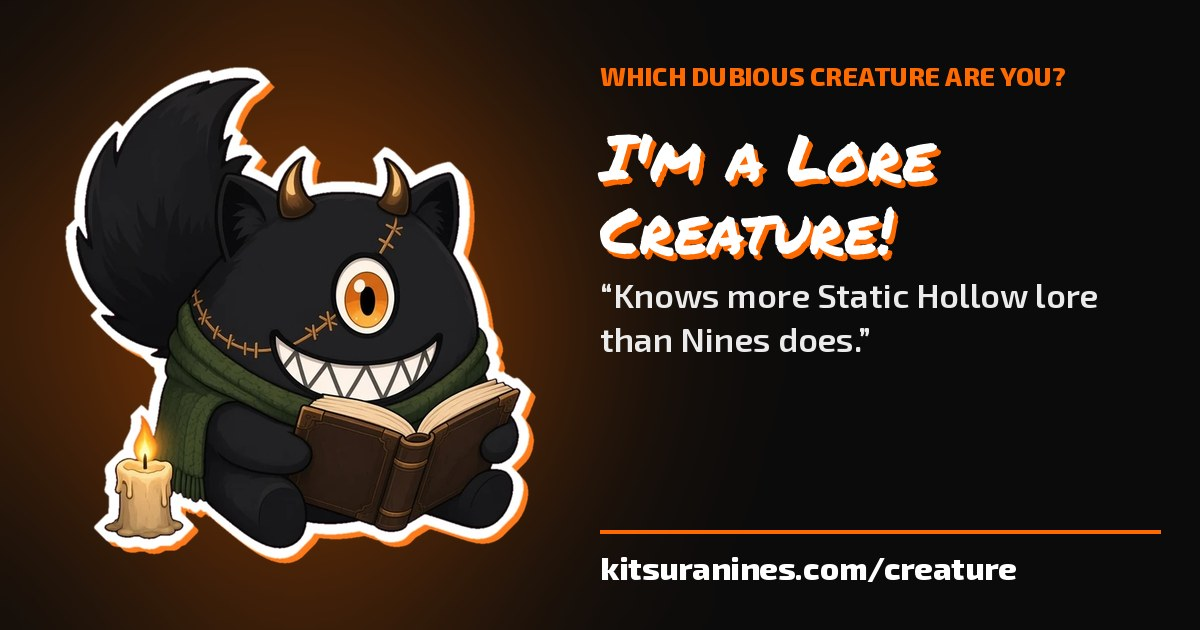
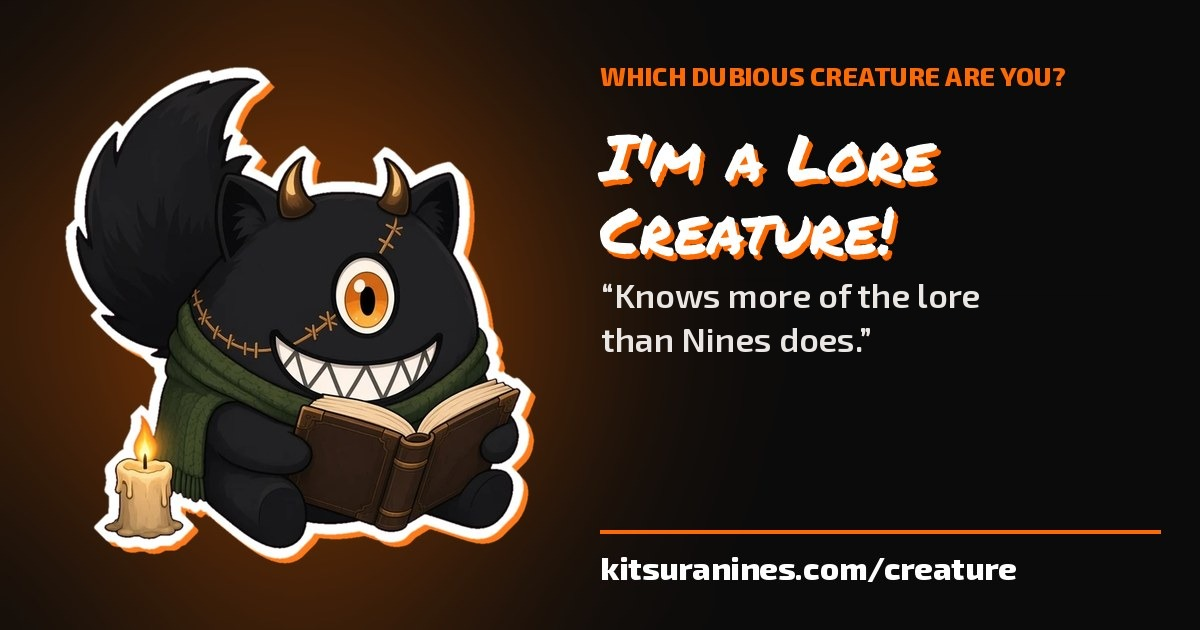
Lore Creature: drop Static Hollow mention from tagline and share card

Changed region(s): [[0.4933, 0.4524, 0.925, 0.5127], [0.4933, 0.5127, 0.7092, 0.573]]

diff --git a/creature/r/lore/index.html b/creature/r/lore/index.html
@@ -1,6 +1,6 @@
 <!doctype html><html lang="en"><head><meta charset="utf-8"><meta name="viewport" content="width=device-width,initial-scale=1">
-<title>I&#x27;m a Lore Creature! · Kitsura Nines</title><meta name="description" content="Knows more Static Hollow lore than Nines does. Which dubious creature are you? Take Kitsura Nines&#x27; quiz."><meta name="robots" content="noindex"><link rel="canonical" href="https://kitsuranines.com/creature/r/lore/">
-<meta property="og:type" content="website"><meta property="og:site_name" content="Kitsura Nines"><meta property="og:title" content="I&#x27;m a Lore Creature! · Kitsura Nines"><meta property="og:description" content="Knows more Static Hollow lore than Nines does. Which dubious creature are you? Take Kitsura Nines&#x27; quiz."><meta property="og:url" content="https://kitsuranines.com/creature/r/lore/"><meta property="og:image" content="https://kitsuranines.com/creature/img/share/lore.jpg?v=1"><meta property="og:image:width" content="1200"><meta property="og:image:height" content="630"><meta property="og:image:alt" content="Lore Creature">
-<meta name="twitter:card" content="summary_large_image"><meta name="twitter:site" content="@kitsuranines"><meta name="twitter:title" content="I&#x27;m a Lore Creature! · Kitsura Nines"><meta name="twitter:description" content="Knows more Static Hollow lore than Nines does. Which dubious creature are you? Take Kitsura Nines&#x27; quiz."><meta name="twitter:image" content="https://kitsuranines.com/creature/img/share/lore.jpg?v=1">
+<title>I&#x27;m a Lore Creature! · Kitsura Nines</title><meta name="description" content="Knows more of the lore than Nines does. Which dubious creature are you? Take Kitsura Nines&#x27; quiz."><meta name="robots" content="noindex"><link rel="canonical" href="https://kitsuranines.com/creature/r/lore/">
+<meta property="og:type" content="website"><meta property="og:site_name" content="Kitsura Nines"><meta property="og:title" content="I&#x27;m a Lore Creature! · Kitsura Nines"><meta property="og:description" content="Knows more of the lore than Nines does. Which dubious creature are you? Take Kitsura Nines&#x27; quiz."><meta property="og:url" content="https://kitsuranines.com/creature/r/lore/"><meta property="og:image" content="https://kitsuranines.com/creature/img/share/lore.jpg?v=2"><meta property="og:image:width" content="1200"><meta property="og:image:height" content="630"><meta property="og:image:alt" content="Lore Creature">
+<meta name="twitter:card" content="summary_large_image"><meta name="twitter:site" content="@kitsuranines"><meta name="twitter:title" content="I&#x27;m a Lore Creature! · Kitsura Nines"><meta name="twitter:description" content="Knows more of the lore than Nines does. Which dubious creature are you? Take Kitsura Nines&#x27; quiz."><meta name="twitter:image" content="https://kitsuranines.com/creature/img/share/lore.jpg?v=2">
 <meta http-equiv="refresh" content="0; url=/creature/?r=lore"><script>location.replace('/creature/?r=lore')</script></head>
 <body style="background:#0b0b0b;color:#fff;font-family:sans-serif;text-align:center;padding:3rem"><h1>Lore Creature</h1><p><a href="/creature/?r=lore" style="color:#ff6a00">See the result and take the quiz</a></p></body></html>

diff --git a/creature/quiz.js b/creature/quiz.js
@@ -4,7 +4,7 @@ chaos:{n:'Chaos Creature',t:"Chaos reigns, and you're holding the remote.",d:'Yo
 snack:{n:'Snack Creature',t:'Here for the vibes. Mostly the snacks.',d:"Cozy stream, warm blanket, an alarming number of gummy worms. You've never missed a snack break, and you would absolutely fight Roger for the last cookie."},
 scream:{n:'Scream Creature',t:'First to scream. Last to recover.',d:'Every jumpscare hits you harder than it hits Nines, and chat has the clips. You love horror games the way some people love touching hot stoves.'},
 hype:{n:'Hype Creature',t:"LET'S GOOOOO (in all caps, always).",d:'You spam the hype, gift the subs, and cheer for Nines failing a jump like she just won the Olympics. A dozen creatures of energy stuffed into one tiny stitched body.'},
-lore:{n:'Lore Creature',t:'Knows more Static Hollow lore than Nines does.',d:'You\'ve read every character page, have three theories about Roger, and quietly correct the wiki. Ancient, mysterious, slightly dusty. Nines asks YOU what happened in her own lore.'},
+lore:{n:'Lore Creature',t:'Knows more of the lore than Nines does.',d:'You\'ve read every character page, have three theories about Roger, and quietly correct the wiki. Ancient, mysterious, slightly dusty. Nines asks YOU what happened in her own lore.'},
 backseat:{n:'Backseat Creature',t:"You're going the wrong way. No, the OTHER wrong way.",d:'You know exactly where the key is, which door to take, and why Nines is wrong. You are always right. You are frequently ignored. You will type it again anyway.'},
 emote:{n:'Emote Creature',t:'Communicates exclusively in emotes.',d:"Words? Never heard of them. Your chat messages are 40 emotes and a keyboard smash, and somehow everyone understands you perfectly. Fluent in skull, fire, and crying-laughing."},
 roger:{n:'Roger Simp Creature',t:'Here for Nines. Stayed for the rude fluffball.',d:"Be honest, you'd follow Roger into the void. Grumpy little guys are your type, and you have a Roger fanart folder to prove it. He hates being petted. You pet him anyway."},

diff --git a/creature/index.html b/creature/index.html
@@ -87,7 +87,7 @@ details.note summary{cursor:pointer;font-weight:700;color:var(--o)}details.note 
 </div></section>
 <p class="bk"><a class="btn" href="apps.html">&larr; Back to Apps</a></p>
 <footer><img src="img/mark.svg" alt="">\ DUBIOUS FOX &#10005;</footer></main>
-<script src="creature/quiz.js?v=2"></script><script>
+<script src="creature/quiz.js?v=3"></script><script>
 (()=>{const K=Object.keys(TYPES),$=id=>document.getElementById(id);let qi=0,sc={};
 const show=v=>['intro','quiz','result'].forEach(x=>$(x).hidden=x!=v);
 function ask(){const q=QS[qi];$('bar').style.width=(qi/QS.length*100)+'%';$('qn').textContent=`Question ${qi+1} of ${QS.length}`;$('qt').textContent=q[0];
